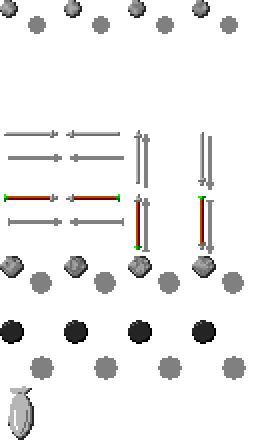
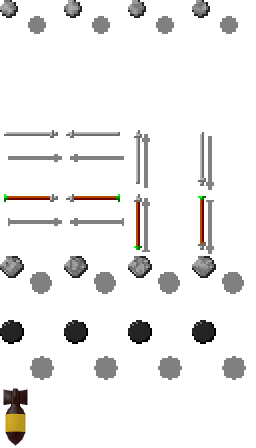
Improved bomb image.

Changed region(s): [[0.0, 0.8438, 0.1562, 1.0]]

diff --git a/readme.html b/readme.html
@@ -545,8 +545,8 @@ UPDATED Now using SDL 2 for Android instead of Qt: no longer requires Ministro
         app; now properly scales to fullscreen (and takes full advantage of
         devices with FullHD displays or higher); now supports using device's
         volume keys to change volume.
-UPDATED Improved graphics: unarmed man, caveman, and minor changes to some of
-        the defenders.
+UPDATED Improved graphics: unarmed man, caveman, bomb, and minor changes to
+        some of the defenders.
 UPDATED Faster startup time.
 UPDATED Max frame rate of 62.5fps now allowed (rather than 40fps).
 UPDATED Options (sound/music and one mouse button mode) now saved.
@@ -981,6 +981,7 @@ First public release.
 <li>misc_menu_3.wav - from <a href="http://opengameart.org/content/gui-sound-effects">http://opengameart.org/content/gui-sound-effects</a>, by Lokif, under <a href="http://creativecommons.org/publicdomain/zero/1.0/">CC0</a>.</li>
 <li>woodbrk.wav - modified from <a href="http://freeciv.wikia.com/wiki/Main_Page">FreeCiv</a>, under the GPL.</li>
 <li>gamemusic.ogg - from <a href="http://ccmixter.org/files/_ghost/37481">http://ccmixter.org/files/_ghost/37481</a>, by _ghost, under <a href="http://creativecommons.org/licenses/by/3.0/">CC BY 3.0</a>.</li>
+<li>attacker_ammo.png, "Bomb" icon - from <a href="http://opengameart.org/content/war-on-water-gfx">http://opengameart.org/content/war-on-water-gfx</a>, by yd, under <a href="http://creativecommons.org/publicdomain/zero/1.0/">CC0</a>.</li>
 <li>attacker_walking_0_*.png, attacker_walking_1_*.png, attacker_walking_2_*.png, attacker_walking_3_*.png, attacker_walking_10_*.png, "Crossbow" defender, 10000BC, 2000BC, 1AD, 900AD, 1400AD, 1944AD, 2100AD and unarmed people icons - from <a href="http://opengameart.org/content/lpc-medieval-fantasy-character-sprites">http://opengameart.org/content/lpc-medieval-fantasy-character-sprites</a>, by wulax, under <a href="http://creativecommons.org/licenses/by-sa/3.0/">CC BY-SA 3.0</a> or later, or the GPL v3 or later.</li>
 <li>attacker_walking_5.png, "Factory" icon, "Stick", "Spear", "Shortbow", "Cauldron of Oil", "Crossbow", "Rifle", "Machine Gun", "Rocket" defenders, 1850AD, 1914AD, 1980AD people icons - from <a href="http://freeciv.wikia.com/wiki/Main_Page">FreeCiv</a>, under the GPL.</li>
 <li>attacker_walking_4_*.png - from <a href="http://opengameart.org/content/catapult">http://opengameart.org/content/catapult</a>, by yd, under <a href="http://creativecommons.org/publicdomain/zero/1.0/">CC0</a>.</li>

diff --git a/game.cpp b/game.cpp
@@ -2235,8 +2235,7 @@ bool loadImages() {
 			attackers_ammo[i][ATTACKER_AMMO_DOWN] = gfx_ammo->copy(48, 16*i, 16, 16);
 		}
 		// bombs
-		attackers_ammo[6][ATTACKER_AMMO_BOMB] = gfx_ammo->copy(0, 96, 10, 16); // different size
-
+		attackers_ammo[6][ATTACKER_AMMO_BOMB] = gfx_ammo->copy(0, 96, 8, 16);
 		delete gfx_def_image;
 		delete gfx_planes;
 		delete gfx_ammo;
